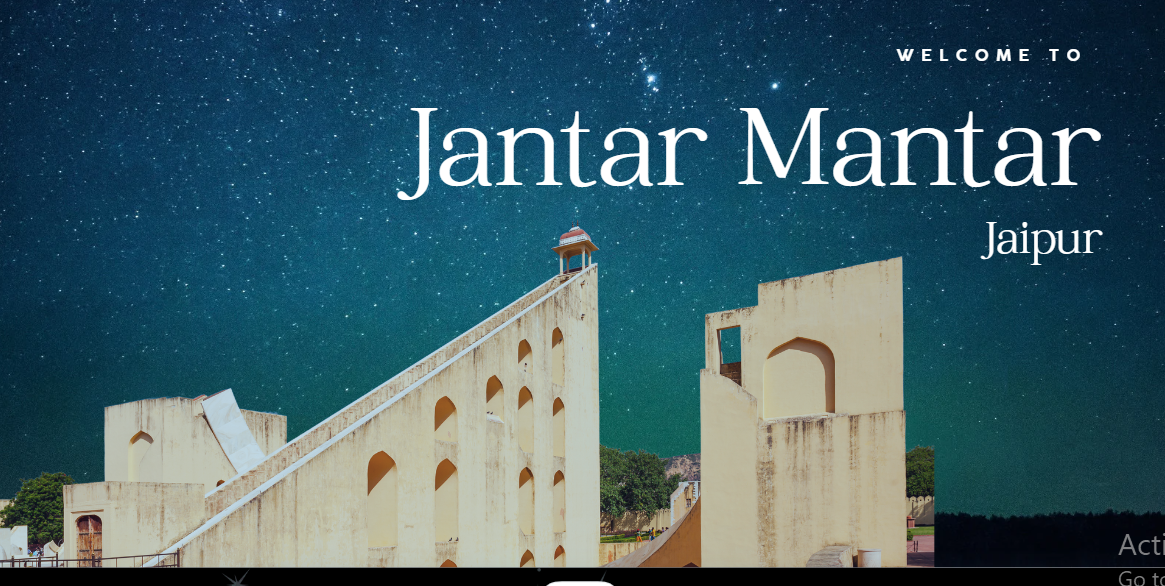
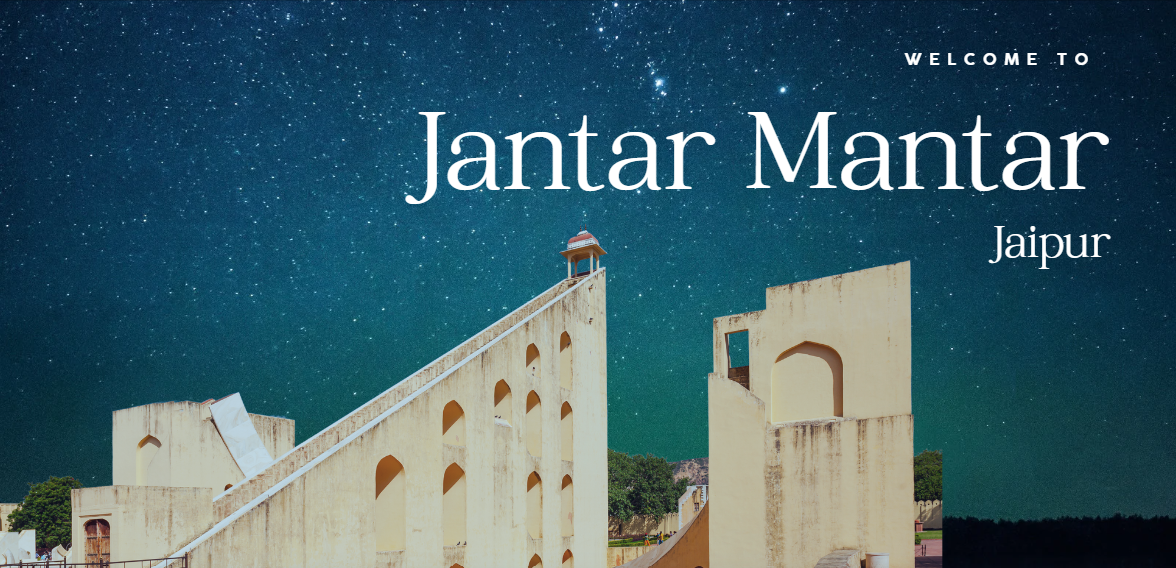
visit

diff --git a/src/components/Instruments/Instruments.jsx b/src/components/Instruments/Instruments.jsx
@@ -31,32 +31,32 @@ function Instruments() {
               
               <div className='col-12 col-md-4 p-1 mt-5'  >
                 <img src={img2} alt=""  style={{width:'100%',height:'100%',border:'2px solid white'}}/>
-                <h5 className='mt-3'>instrument 1</h5>
+                <h5 className='mt-3 text-center'>instrument 1</h5>
             
               </div>
               <div className='col-12 col-md-4 p-1 mt-5'  >
                 <img src={img3} alt=""  style={{width:'100%',height:'100%',border:'2px solid white'}}/>
-                <h5 className='mt-3'>instrument 2</h5>
+                <h5 className='mt-3 text-center'>instrument 2</h5>
             
               </div>
               <div className='col-12 col-md-4 p-1 mt-5'  >
                 <img src={img4} alt=""  style={{width:'100%',height:'100%',border:'2px solid white'}}/>
-                <h5 className='mt-3'>instrument 2</h5>
+                <h5 className='mt-3 text-center'>instrument 2</h5>
             
               </div>
               <div className='col-12 col-md-4 p-1 mt-5' >
                 <img src={img5} alt=""  style={{width:'100%',height:'100%',border:'2px solid white'}}/>
-                <h5 className='mt-3'>instrument 4</h5>
+                <h5 className='mt-3 text-center'>instrument 4</h5>
             
               </  div>
               <div className='col-12 col-md-4 p-1 mt-5'>
                 <img src={img6} alt=""  style={{width:'100%',height:'100%',border:'2px solid white'}}/>
-                <h5 className='mt-3'>instrument 5</h5>
+                <h5 className='mt-3 text-center'>instrument 5</h5>
             
               </div>
               <div className='col-12 col-md-4 p-1 mt-5'  >
                 <img src={img7} alt=""  style={{width:'100%',height:'100%',border:'2px solid white'}}/>
-                <h5 className='mt-3'>instrument 6</h5>
+                <h5 className='mt-3 text-center'>instrument 6</h5>
             
               </div>
               

diff --git a/src/App.js b/src/App.js
@@ -7,6 +7,7 @@ import Home from './Screen/Home';
 import History from  './components/History/History'
 import Instrument from './components/Instruments/Instrument';
 import Heritage from './components/Preserving/Heritage';
+import Visit from './components/visit/Visit';
 function App() {
   return (
 <BrowserRouter>
@@ -17,6 +18,8 @@ function App() {
 <Route exact path = '/history' element={<History/>}></Route>
 <Route exact path = '/instruments' element={<Instrument/>}></Route>
 <Route exact path = '/heritage' element={<Heritage/>}></Route>
+<Route exact path = '/visit' element={<Visit/>}></Route>
+
 
 
 

diff --git a/src/components/Home/Landing.jsx b/src/components/Home/Landing.jsx
@@ -6,7 +6,7 @@ function Landing() {
   return (
     <div className='first '>
 
-      <img src={img1} style= {{width:'100%'}}  alt="" />
+      <img src={img1} style= {{width:'100%',backgroundSize:'cover'}}  alt="" />
 
 
 

diff --git a/src/components/visit/Visit.jsx b/src/components/visit/Visit.jsx
@@ -1,0 +1,13 @@
+import React from 'react'
+import Navbar from '../../Screen/Navbar'
+
+function Visit() {
+  return (
+    <div>
+        <Navbar></Navbar>
+      
+    </div>
+  )
+}
+
+export default Visit
